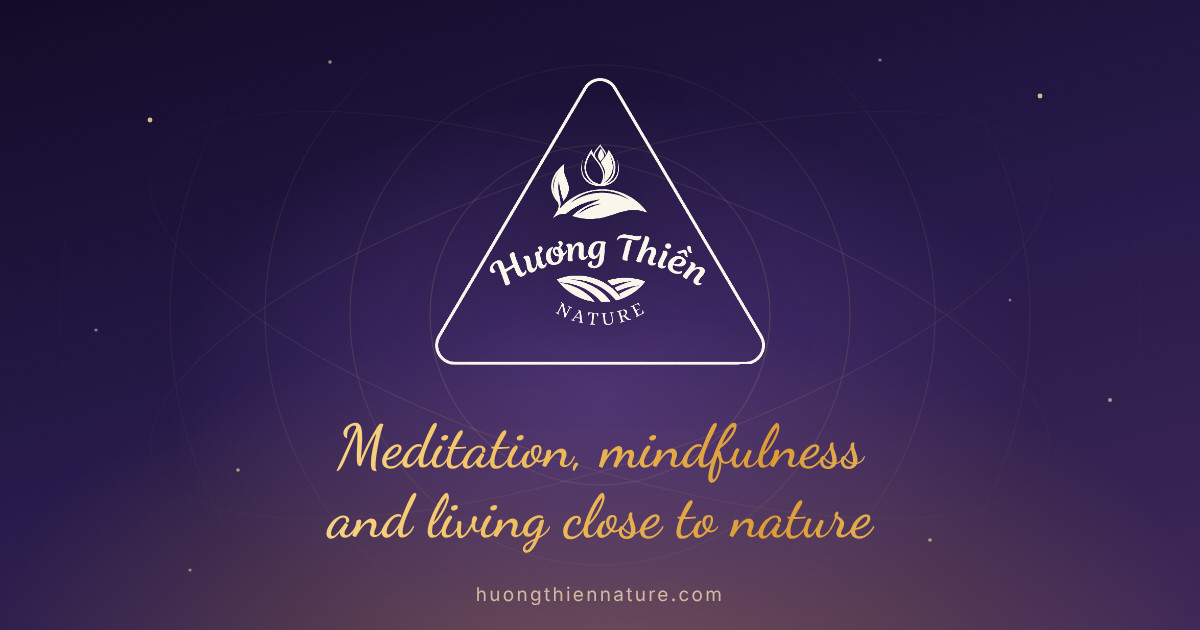
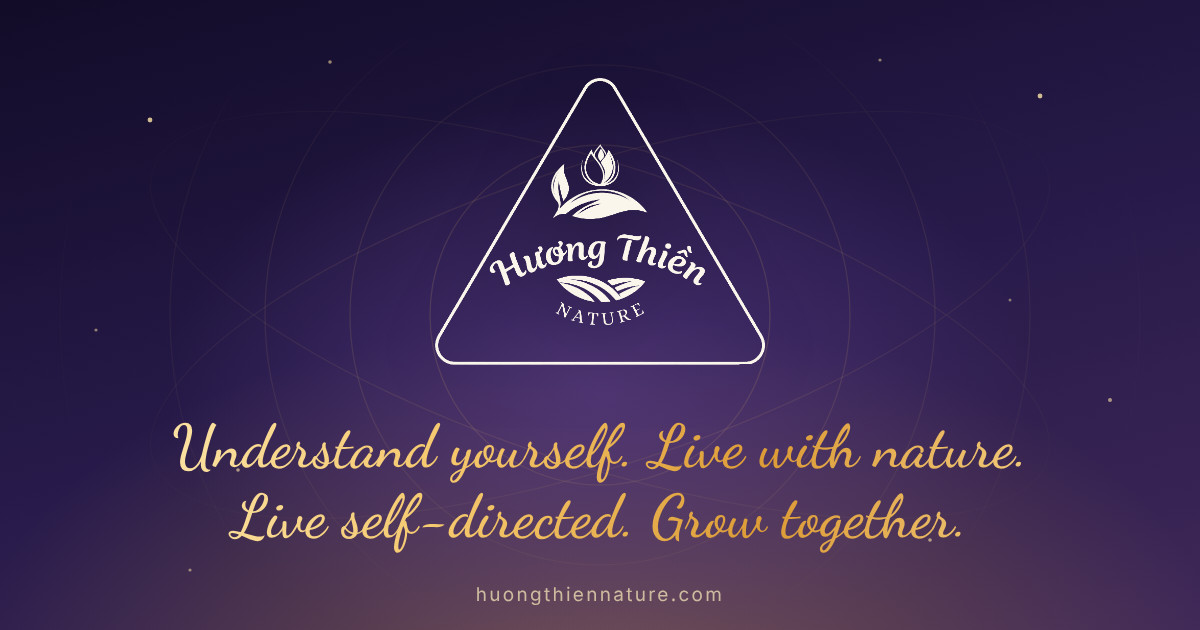
Website 2.30.1: câu chủ đạo ở tiêu đề trang chủ, manifest và ảnh chia sẻ (#78)
- Tiêu đề trang chủ dùng câu chủ đạo (philosophyTagline), vi và en.
- public/site.webmanifest: mô tả đổi sang câu chủ đạo.
- Ảnh chia sẻ mặc định in câu chủ đạo mới; alt trong BaseLayout khớp với ảnh. Ảnh Quỹ ủng hộ không đổi.

Claude-Session: https://claude.ai/code/session_01BbYdAr6r1KQwcscsvsM6eW

Changed region(s): [[0.1233, 0.6635, 0.8633, 0.8746]]

diff --git a/src/data/releases.ts b/src/data/releases.ts
@@ -16,6 +16,12 @@ type Release = {
 
 export const releases: Release[] = [
   {
+    version: '2.30.1',
+    date: '2026-11-28',
+    vi: ['Câu chủ đạo ở tiêu đề trang chủ và ảnh chia sẻ', 'Tiêu đề trang chủ, thông tin cài đặt trên điện thoại và ảnh chia sẻ mặc định đều dùng câu chủ đạo mới.'],
+    en: ['The tagline in the home title and share image', 'The home page title, the mobile install details and the default share image now use the new tagline.'],
+  },
+  {
     version: '2.30.0',
     date: '2026-11-28',
     vi: ['Câu chủ đạo ở chân trang; khung tìm kiếm cửa hàng gọn hơn', 'Chân trang hiện đủ câu chủ đạo và logo không còn chồng lên tên. Ba không gian cửa hàng có nhóm lọc một dòng, nút xóa bộ lọc và số đếm theo bộ lọc.'],

diff --git a/scripts/social-images/template.html b/scripts/social-images/template.html
@@ -62,8 +62,8 @@ const lang = params.get('lang') === 'en' ? 'en' : 'vi';
 document.documentElement.lang = lang;
 const copy = {
   brand: {
-    vi: ['Thiền định, chánh niệm', 'và sống thuận tự nhiên'],
-    en: ['Meditation, mindfulness', 'and living close to nature'],
+    vi: ['Hiểu mình. Thuận tự nhiên.', 'Sống tự chủ. Cùng trưởng thành.'],
+    en: ['Understand yourself. Live with nature.', 'Live self-directed. Grow together.'],
   },
   support: {
     vi: { title: 'Quỹ ủng hộ', sub: 'Cùng nhau gieo mầm và lan tỏa' },

diff --git a/HANDOFF.md b/HANDOFF.md
@@ -1,6 +1,6 @@
 # Bàn giao phát triển Hương Thiền Nature
 
-Cập nhật: 2026-11-28, phiên bản 2.30.0 (chân trang có câu chủ đạo đầy đủ; khung lọc cửa hàng gọn hơn; 2.29.3 sửa menu máy tính ở 1440px; 2.29.2 thêm gạch chân trang hiện tại, cỡ chữ lớn từ 1600px, nút Liên hệ viên thuốc). Trước đó, 2.29.1 (bộ nhận diện đồng bộ câu chủ đạo mới; khung riêng cho câu bổ sung ở Triết lý sống). Trước đó, 2.29.0 (một câu chủ đạo "Hiểu mình. Thuận tự nhiên. Sống tự chủ. Cùng trưởng thành."; một khối Living Zen; Living Zen Philosophy v1.1 đủ mười ví dụ). Điểm neo trước đợt này: nhánh `anchor/2026-11-26-v2.23.0`.
+Cập nhật: 2026-11-28, phiên bản 2.30.1 (tiêu đề trang chủ, manifest và ảnh chia sẻ dùng câu chủ đạo; 2.30.0 chân trang có câu chủ đạo đầy đủ; khung lọc cửa hàng gọn hơn; 2.29.3 sửa menu máy tính ở 1440px; 2.29.2 thêm gạch chân trang hiện tại, cỡ chữ lớn từ 1600px, nút Liên hệ viên thuốc). Trước đó, 2.29.1 (bộ nhận diện đồng bộ câu chủ đạo mới; khung riêng cho câu bổ sung ở Triết lý sống). Trước đó, 2.29.0 (một câu chủ đạo "Hiểu mình. Thuận tự nhiên. Sống tự chủ. Cùng trưởng thành."; một khối Living Zen; Living Zen Philosophy v1.1 đủ mười ví dụ). Điểm neo trước đợt này: nhánh `anchor/2026-11-26-v2.23.0`.
 
 ## Nguồn sự thật
 
@@ -44,6 +44,7 @@ Repository `kieumanh/huong-thien-nature-web`, nhánh `main`. Hội thoại cũ (
 | 24/11 | 2.17.0: trang Quỹ ủng hộ (vi/en) có hình động, thông tin chuyển khoản + QR TPBank của Kiều Xuân Mạnh; khối Quỹ ủng hộ ở chân trang. |
 | 24/11 | 2.16.2: gỡ dòng số khẩn cấp 115; thêm ZenWork vào Hệ sinh thái; thanh chế độ đọc nằm trong luồng trang; khoảng cách trang Gợi ý. |
 | 24/11 | 2.16.1: gỡ "Khu vườn của tôi" (mục, nút Lưu, nhắc đọc tiếp) khỏi Tản văn; canh giữa nút Liên hệ Trang chủ. |
+| 28/11 | 2.30.1: tiêu đề trang chủ (`HomePage.astro`), `public/site.webmanifest`, ảnh chia sẻ `public/media/social/huong-thien-nature-{vi,en}.jpg` (mẫu `scripts/social-images/template.html`, `BaseLayout.astro` alt) dùng `philosophyTagline` |
 | 28/11 | 2.30.0: chân trang hiện đủ câu chủ đạo (`Footer.astro`, `philosophyTagline`), logo giữ tỷ lệ và không chồng tên; khung lọc cửa hàng một dòng, nút "Xóa bộ lọc", số đếm theo bộ lọc (`ShopTheme.astro`, `shop.css`, `shop-catalogue.ts`) |
 | 28/11 | 2.29.3: bỏ mức chữ lớn ở 1440–1599px (làm /vi/he-sinh-thai/ rộng thêm 2px với font CI); chữ lớn chỉ từ 1600px |
 | 27/11 | 2.29.2: menu máy tính (`global.css` cuối phần nav): gạch chân mục hiện tại, cỡ chữ 14/14,4/15,2/16px theo 1280/1440/1600/1800px, thanh menu rộng 1560px từ 1600px, nút Liên hệ nền xanh rừng; đã đo 1280–2560px vi/en |

diff --git a/CHANGELOG.md b/CHANGELOG.md
@@ -1,3 +1,10 @@
+## 2.30.1 — Câu chủ đạo ở tiêu đề trang chủ, file cài đặt và ảnh chia sẻ
+
+- Tiêu đề trang chủ dùng câu chủ đạo: "Hương Thiền Nature | Hiểu mình. Thuận tự nhiên. Sống tự chủ. Cùng trưởng thành." (bản Anh: câu tương ứng).
+- `site.webmanifest` (thông tin khi lưu trang ra màn hình điện thoại): mô tả đổi sang câu chủ đạo.
+- Ảnh chia sẻ mặc định (`public/media/social/huong-thien-nature-vi.jpg` và `-en.jpg`) in câu chủ đạo mới; mô tả ảnh (alt) khớp với ảnh. Ảnh Quỹ ủng hộ không đổi.
+- Không còn câu mô tả cũ "Thiền định, chánh niệm và sống thuận tự nhiên" trong `src`, `public`, `scripts`, `tests` và `brand`.
+
 ## 2.30.0 — Câu chủ đạo ở chân trang; khung tìm kiếm cửa hàng gọn hơn
 
 - **Chân trang**: logo giữ nguyên tỷ lệ, không còn cắt tròn, đứng riêng. Bên cạnh là tên thương hiệu và câu chủ đạo đầy đủ "Hiểu mình. Thuận tự nhiên. Sống tự chủ. Cùng trưởng thành." (lấy từ `philosophyTagline`, cùng nguồn với trang Triết lý). Bản tiếng Anh dùng câu tương ứng.
